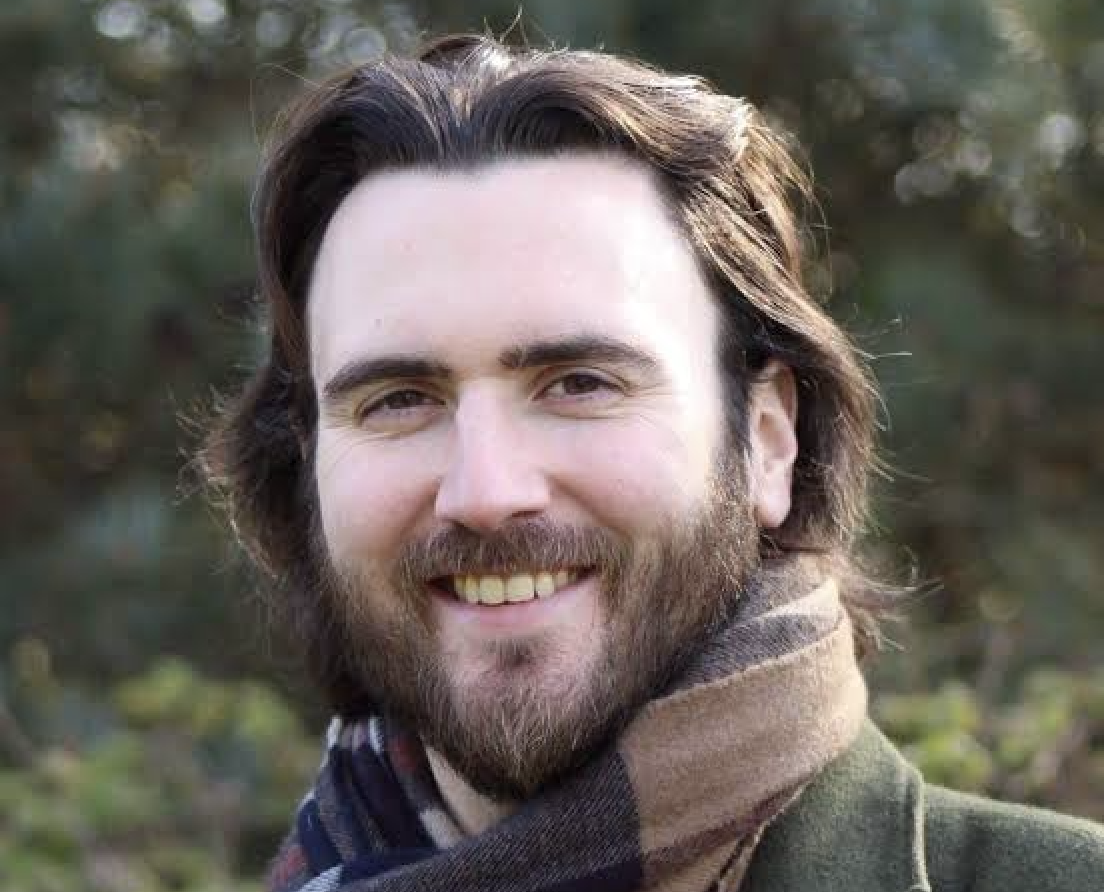
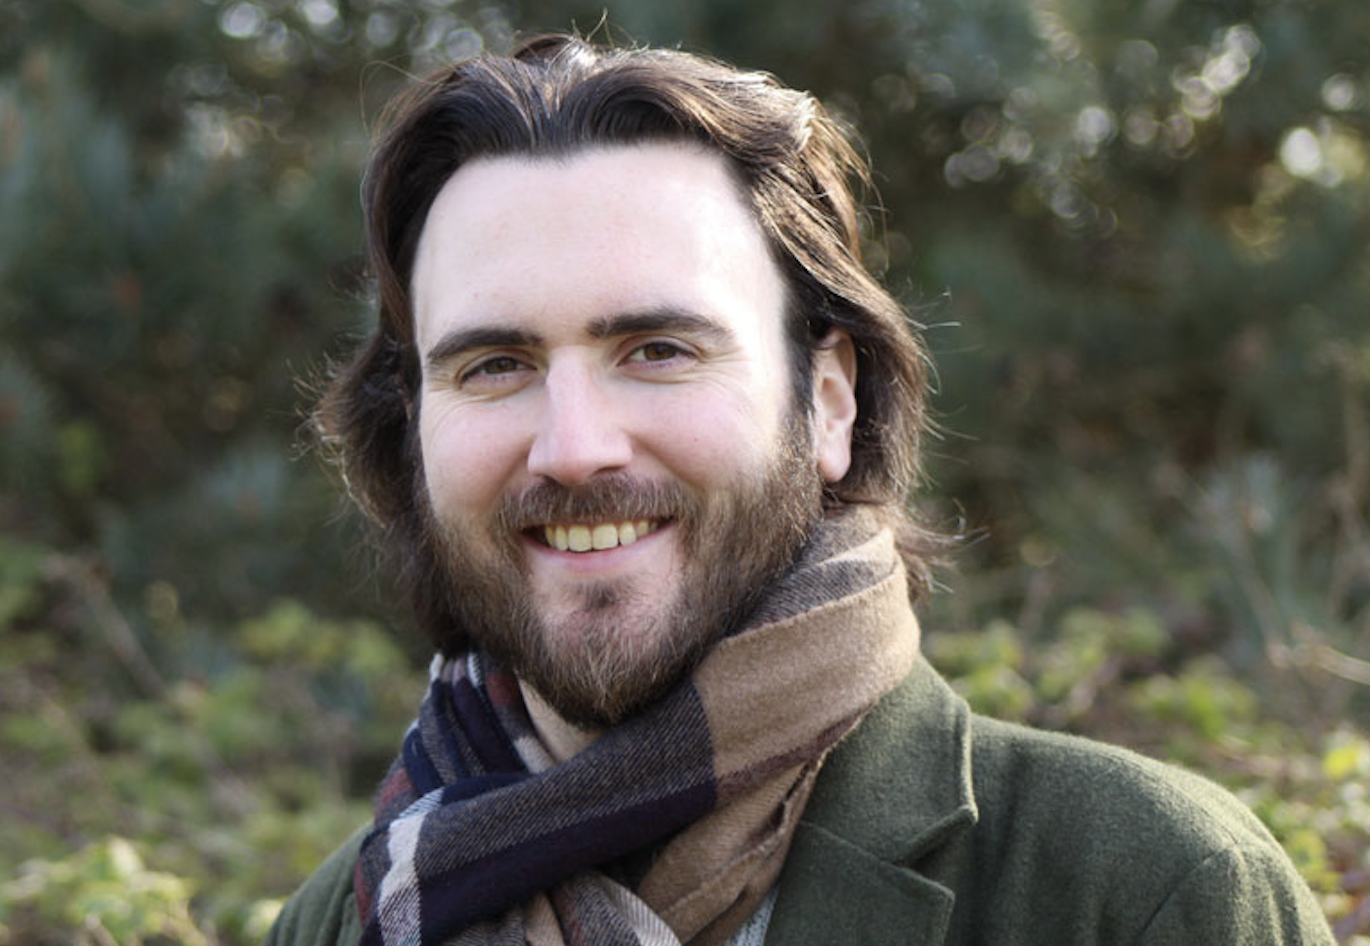
documentation

diff --git a/src/app/documentation/page.tsx b/src/app/documentation/page.tsx
@@ -1,3 +1,4 @@
+import Image from "next/image";
 import { Banner } from "@/components/wiki/Banner";
 import { WikiPage } from "@/components/wiki/WikiPage";
 import { WikiSection } from "@/components/wiki/WikiSection";
@@ -5,6 +6,189 @@ import { WikiSection } from "@/components/wiki/WikiSection";
 export const metadata = {
   title: "Documentation — MEYcell",
 };
+
+export const parts = [
+  {
+    id: "cp-tef1",
+    title: "cp_TEF1",
+    category: "Promoter",
+    source: {
+      label: "(Decoene et. al, 2019)",
+      url: "https://pmc.ncbi.nlm.nih.gov/articles/PMC6830820/#pone.0224476.s010",
+    },
+  },
+  { id: "dga1", title: "DGA1", category: "CDS", source: { label: "SGD" } },
+  { id: "bgl2", title: "BGL2", category: "CDS", source: { label: "SGD" } },
+  {
+    id: "rnat-1",
+    title: "RNAt_1",
+    category: "5' UTR",
+    source: { label: "New" },
+  },
+  {
+    id: "rnat-2",
+    title: "RNAt_2",
+    category: "5' UTR",
+    source: { label: "New" },
+  },
+  {
+    id: "rnat-3",
+    title: "RNAt_3",
+    category: "5' UTR",
+    source: { label: "New" },
+  },
+  {
+    id: "mscarlet3-fwd",
+    title: "mScarlet3_fwd",
+    category: "Primer",
+    source: { label: "New" },
+  },
+  {
+    id: "mscarlet3-rvs",
+    title: "mScarlet3_rvs",
+    category: "Primer",
+    source: { label: "New" },
+  },
+] as const;
+
+export const protocols = [
+  {
+    id: "media preparation",
+    title: "Media Preparation",
+    description: "These protocols ____",
+    pdfUrl: "coming soon",
+  },
+
+  {
+    id: "media preparation",
+    title: "Media Preparation",
+    description: "These protocols ____",
+    pdfUrl: "coming soon",
+  },
+
+  {
+    id: "media preparation",
+    title: "Media Preparation",
+    description: "These protocols ____",
+    pdfUrl: "coming soon",
+  },
+
+  {
+    id: "media preparation",
+    title: "Media Preparation",
+    description: "These protocols ____",
+    pdfUrl: "coming soon",
+  },
+
+  {
+    id: "media preparation",
+    title: "Media Preparation",
+    description: "These protocols ____",
+    pdfUrl: "coming soon",
+  },
+
+  {
+    id: "media preparation",
+    title: "Media Preparation",
+    description: "These protocols ____",
+    pdfUrl: "coming soon",
+  },
+
+  {
+    id: "media preparation",
+    title: "Media Preparation",
+    description: "These protocols ____",
+    pdfUrl: "coming soon",
+  },
+
+  {
+    id: "media preparation",
+    title: "Media Preparation",
+    description: "These protocols ____",
+    pdfUrl: "coming soon",
+  },
+
+  {
+    id: "media preparation",
+    title: "Media Preparation",
+    description: "These protocols ____",
+    pdfUrl: "coming soon",
+  },
+] as const;
+
+function PartsTable({
+  rows,
+}: {
+  rows: readonly {
+    id: string;
+    title: string;
+    category: string;
+    source: { label: string; url?: string };
+  }[];
+}) {
+  return (
+    <div className="overflow-x-auto rounded-md border border-border">
+      <table className="w-full border-collapse text-left text-sm">
+        <thead>
+          <tr className="border-b border-border bg-card/80">
+            <th className="p-3 font-medium text-foreground">Part Title</th>
+            <th className="p-3 font-medium text-foreground">Category</th>
+            <th className="p-3 font-medium text-foreground">Source</th>
+          </tr>
+        </thead>
+        <tbody>
+          {rows.map((row) => (
+            <tr key={row.id} className="border-b border-border last:border-b-0">
+              <td className="p-3 text-body">{row.title}</td>
+              <td className="p-3 text-body">{row.category}</td>
+              <td className="p-3 text-body">
+                {row.source.url ? (
+                  <a
+                    href={row.source.url}
+                    target="_blank"
+                    rel="noopener noreferrer"
+                    className="text-primary underline transition-colors hover:text-primary/80"
+                  >
+                    {row.source.label}
+                  </a>
+                ) : (
+                  row.source.label
+                )}
+              </td>
+            </tr>
+          ))}
+        </tbody>
+      </table>
+    </div>
+  );
+}
+
+function ProtocolCard({
+  title,
+  description,
+  pdfUrl,
+}: {
+  title: string;
+  description: string;
+  pdfUrl: string;
+}) {
+  return (
+    <div className="flex flex-col justify-between space-y-4 border border-border bg-card/80 p-6">
+      <div className="space-y-3">
+        <h3 className="text-lg font-medium text-foreground">{title}</h3>
+        <p className="text-sm leading-relaxed text-body">{description}</p>
+      </div>
+      <a
+        href={pdfUrl}
+        target="_blank"
+        rel="noopener noreferrer"
+        className="inline-flex items-center gap-1 text-sm font-medium text-primary transition-colors hover:text-primary/80"
+      >
+        View PDF <span aria-hidden="true">&rarr;</span>
+      </a>
+    </div>
+  );
+}
 
 export default function DocumentationPage() {
   return (
@@ -14,6 +198,147 @@ export default function DocumentationPage() {
       </Banner>
 
       <WikiPage>
+        <WikiSection id="parts" title="Parts">
+          <div className="space-y-4">
+            <p className="text-sm text-body">
+              All sequences obtained are native to S. cerevisiae with the
+              exceptions of the RNAt which was a novel concept but was optimized
+              for the yeast. The genes were domesticated using a codon usage
+              table to optimize amino acid sequences that were the most used by
+              S. cerevisiae and remove internal restriction enzyme sites. This
+              way, the final protein coded by the yeast wasn’t changed but
+              allowed to perform Golden Gate assemblies and other
+              enzyme-dependent reactions. The CDS genes were ordered from Twist
+              Biosciences as dsDNA with the enzyme recognition sites and
+              overhangs already added, while the RNAt, core promoter sequence,
+              and primers were all ordered through Genscript. The acceptor
+              plasmid for Level 1 as well as the other promoters, terminators,
+              and connectors were from the iGEM 2025 distribution kit.
+            </p>
+            <PartsTable rows={parts} />
+          </div>
+        </WikiSection>
+
+        <WikiSection id="constructs" title="Plasmid Constructs">
+          <p>
+            Plasmid construction and selection are essential to consider in the
+            design process of optimizing the lipid synthesis pathway of
+            Saccharomyces cerevisiae. When selecting a suitable plasmid, several
+            considerations were kept in mind, such as S. cerevisiae and E. coli
+            compatibility, copy number, and plasmid types.
+          </p>
+          <p>
+            To ensure our optimized pathway is compatible in both S. cerevisiae
+            and E. coli, we selected pRS shuttle vectors, which were
+            well-validated. The purpose of utilizing a shuttle vector was to
+            allow for replication between multiple host organisms. Additionally,
+            the origin of replication needed to be compatible with E. coli.
+            However, a more complex replication system within S. cerevisiae
+            needed to be considered, such as Autonomously Replicating Systems
+            (ARS) causing independent replication, and centromere (CEN)
+            sequences allowing for low-copy chromosome division. These factors
+            of yeast replication are species-dependent, and were taken into
+            consideration when selecting the plasmid.
+          </p>
+          <p>
+            Moreover, selectable marker sequences are needed to be compatible in
+            both host organisms, especially when working with both bacteria and
+            eukaryotes. For E. Coli, the ampicillin resistance gene was
+            incorporated into the plasmid. For auxotrophic selection within S.
+            cerevisiae, a URA3 marker was integrated into the plasmid construct.
+          </p>
+          <p>
+            To integrate our plasmid construct into the host organisms,
+            homologous recombination was initially considered. However, nuclear
+            genome integration was opted for instead to avoid potential
+            competition between multiple plasmids for the same gene inserts.
+            Ultimately, the centromeric pAN316a was selected due to its
+            stability in regards to transformation, as well as its relatively
+            inexpensive price. Although the pRS shuttle vectors were initially
+            what was in mind, the pAN316a was chosen as it was sourced locally
+            from a professor, contained similar characteristics to the pRS
+            series, and shared the same restriction enzyme orientation. Sharing
+            the same orientation, in this regard, was especially important as it
+            ensures the predicted direction of expression and further
+            verification steps for cloning.
+          </p>
+          <p>
+            Parts from the open yeast collection (OYC) are constructed into a
+            Level 1 transcription unit to be inserted into the plasmid vector.
+            This transcription unit features the genes specific to optimizing
+            the lipid synthesis pathway. However, all promoters sourced from the
+            OYC contained 5’ untranslated regions (UTRs), posing an issue when
+            later assembled alongside the RNAt, which contains an innate 5’ UTR
+            of its own. Having two 5’ UTRs would cause interference between
+            ribosomal binding sites, and risks improper translation efficiency.
+            To combat this problem, promoters were ordered lacking their
+            respective 5’ UTRs, such that the one of the RNAt remains the only
+            functioning ribosomal binding site (RBS).
+          </p>
+          <p>
+            Furthermore, the removal of the native 5’ UTRs of the OYC promoters
+            required the selection of a core promoter to maintain the necessary
+            host transcriptional machinery. This core promoter sequence,
+            condensed to 69 base pairs, optimized transcriptional activity while
+            avoiding downstream translational interferences by lacking a native
+            5’ UTR.
+          </p>
+          <h2 className="mb-4 text-xl font-medium text-foreground">Level 0</h2>
+          <p>
+            The Level 0 parts consist of compatible sequences flanked by BsmBI
+            and digested to form a Level 1 transcription unit. These sequences
+            consist of the promoter, 5’ UTR, CDS, and 3’UTR/terminator.
+          </p>
+          <h2 className="mb-4 text-xl font-medium text-foreground">Level 1</h2>
+          <p>
+            The Level 1 parts are joined together by flanking each end with BsaI
+            overhangs, then digesting to form a Level 2 transcription unit. The
+            Level 1 parts differ by their own unique promoter-terminator pair
+            and coding sequences (CDS). As suggested to us by Dr. Cinzia Klemm,
+            incorporating unique promoter-terminator pairs within each part
+            allows for the prevention of accidental homologous recombination.
+            Homologous recombination can occur between repetitive sequences in
+            the yeast, and risks unwanted deletions in the final construct. The
+            CDS of each part features ACC1, DGA1, OLE1, TPS1, and the RNAt
+            within the 5’ UTR of the BGL2. The RNAt is embedded within the 5’
+            UTR of the BGL2 to ensure its lysis-facilitating properties
+            selectively occur at RNAt-specific temperatures.
+          </p>
+          <Image
+            src="/documentation/rnat bgl2 plasmid.png"
+            alt="pAN316a plasmid"
+            width={400}
+            height={400}
+            className="border border-border"
+          />
+          <h2 className="mb-4 text-xl font-medium text-foreground">Level 2</h2>
+          <p>
+            The Level 2 transcription unit is flanked by BsmBI sites and
+            integrated into the plasmid vector, pAN316a, through digestion and
+            ligation with EcoRI and SpeI enzymes. COMING SOON
+          </p>
+          <Image
+            src="/documentation/pAN316a plasmid.png"
+            alt="pAN316a plasmid"
+            width={400}
+            height={400}
+            className="border border-border"
+          />
+        </WikiSection>
+
+        <WikiSection id="protocols" title="Lab Protocols">
+          <div className="grid gap-4 sm:grid-cols-2">
+            {protocols.map((protocol) => (
+              <ProtocolCard
+                key={protocol.id}
+                title={protocol.title}
+                description={protocol.description}
+                pdfUrl={protocol.pdfUrl}
+              />
+            ))}
+          </div>
+        </WikiSection>
+
         <WikiSection id="opportunity" title="Market Opportunity">
           <p>
             The alternative protein market and where animal-free fat fits within
